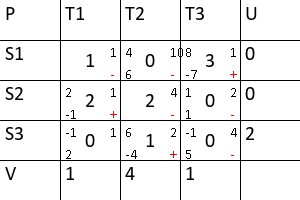
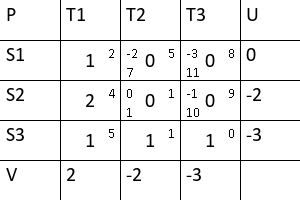
changed nwcorner method

diff --git a/nwcorner.py b/nwcorner.py
@@ -119,14 +119,14 @@ class NW_method:
         draw.text((cell_size[0] * (col_num - 1) + padding, cell_size[1] * (row_num - 1) + padding),
                   str(sum(self.stock)), font=font, fill='black')
 
-        for i in range(col_num + 1, col_num + len(self.a_matrix)):
+        for i in range(col_num, col_num + len(self.a_matrix)):
             for j in range(1, len(self.a_matrix[0]) + 1):
-                draw.text((cell_size[0] * (i - 1) + padding, cell_size[1] * j + padding),
+                draw.text((cell_size[0] * i + padding, cell_size[1] * j + padding),
                           str(self.a_matrix[i - col_num][j - 1]), font=font, fill='black')
 
-        for i in range(row_num + 1, row_num + len(self.b_matrix)):
+        for i in range(row_num, row_num + len(self.b_matrix)):
             for j in range(1, len(self.b_matrix[0]) + 1):
-                draw.text((cell_size[0] * j + padding, cell_size[1] * (i - 1) + padding),
+                draw.text((cell_size[0] * j + padding, cell_size[1] * i + padding),
                           str(self.b_matrix[i - row_num][j - 1]), font=font, fill='black')
 
         img.save(f"pictures/nwcorner{self.message.from_user.id}.png")
@@ -139,28 +139,17 @@ class NW_method:
 
         k = 0
 
-        # находим сз угол
         for i in range(row_num):
             for j in range(col_num):
-                if self.matrix[i][j].capacity != -1:
-                    continue
-
                 min_val = min(self.a_matrix[k][i], self.b_matrix[k][j])
-                # self.matrix[i][j].capacity = min_val
-                self.a_matrix.append(self.a_matrix[k][:])
-                self.b_matrix.append(self.b_matrix[k][:])
-                self.a_matrix[k + 1][i] -= min_val
-                self.b_matrix[k + 1][j] -= min_val
-
-                if min_val == self.a_matrix[k][i]:
-                    for n in range(i + 1, col_num):
-                        self.matrix[i][n].capacity = 0
-                if min_val == self.b_matrix[k][j]:
-                    for n in range(j + 1, row_num):
-                        self.matrix[n][j].capacity = 0
-
                 self.matrix[i][j].capacity = min_val
-                k += 1
+                self.a_matrix[k][i] -= min_val
+                self.b_matrix[k][j] -= min_val
+
+                if min_val != 0:
+                    self.a_matrix.append(self.a_matrix[k][:])
+                    self.b_matrix.append(self.b_matrix[k][:])
+                    k += 1
 
     def potentials(self):
         row_num = len(self.matrix)

diff --git a/main.py b/main.py
@@ -69,7 +69,7 @@ def start_nwcorner(message):
 
 
 def nwcorner_body(message):
-    try:
+
         method = NW_method(message.text, bot, message)
         method.show_matrix()
         with open(f"pictures/nwcorner{message.from_user.id}.png", "rb") as pic:
@@ -82,7 +82,7 @@ def nwcorner_body(message):
             method.table_potentials()
             with open(f"pictures/potentials{message.from_user.id}.png", "rb") as pic:
                 bot.send_photo(message.from_user.id, photo=pic)
-    except:
+
         bot.send_message(message.from_user.id, "Неверный ввод. Чтобы попробовать еще раз, введите /nwcorner")
 
 
